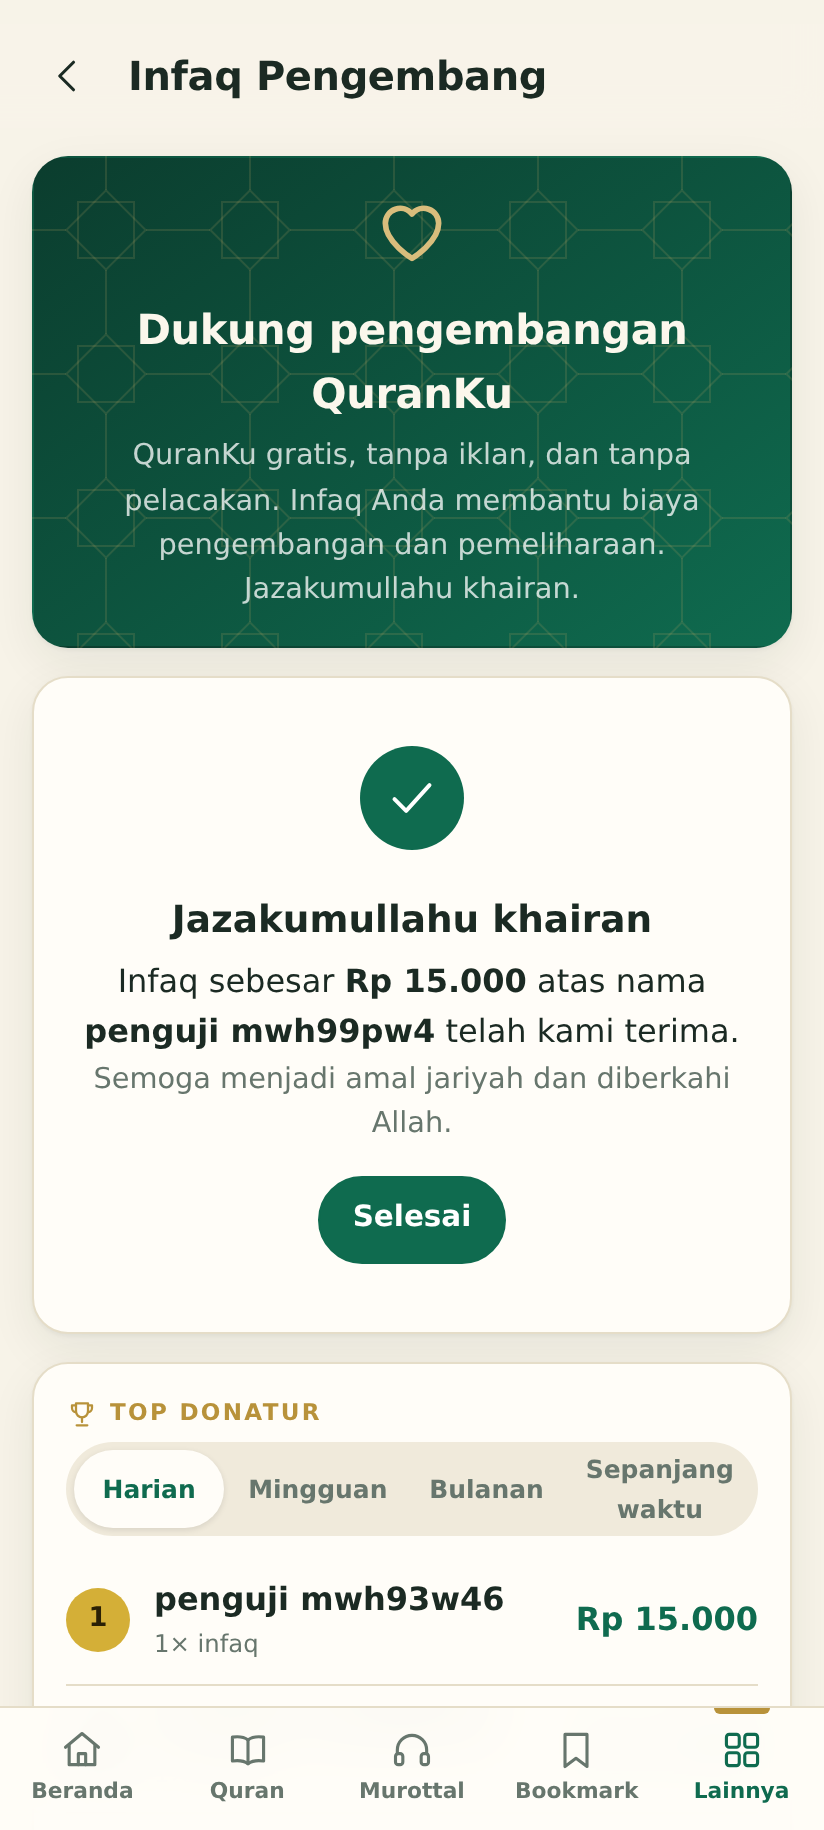
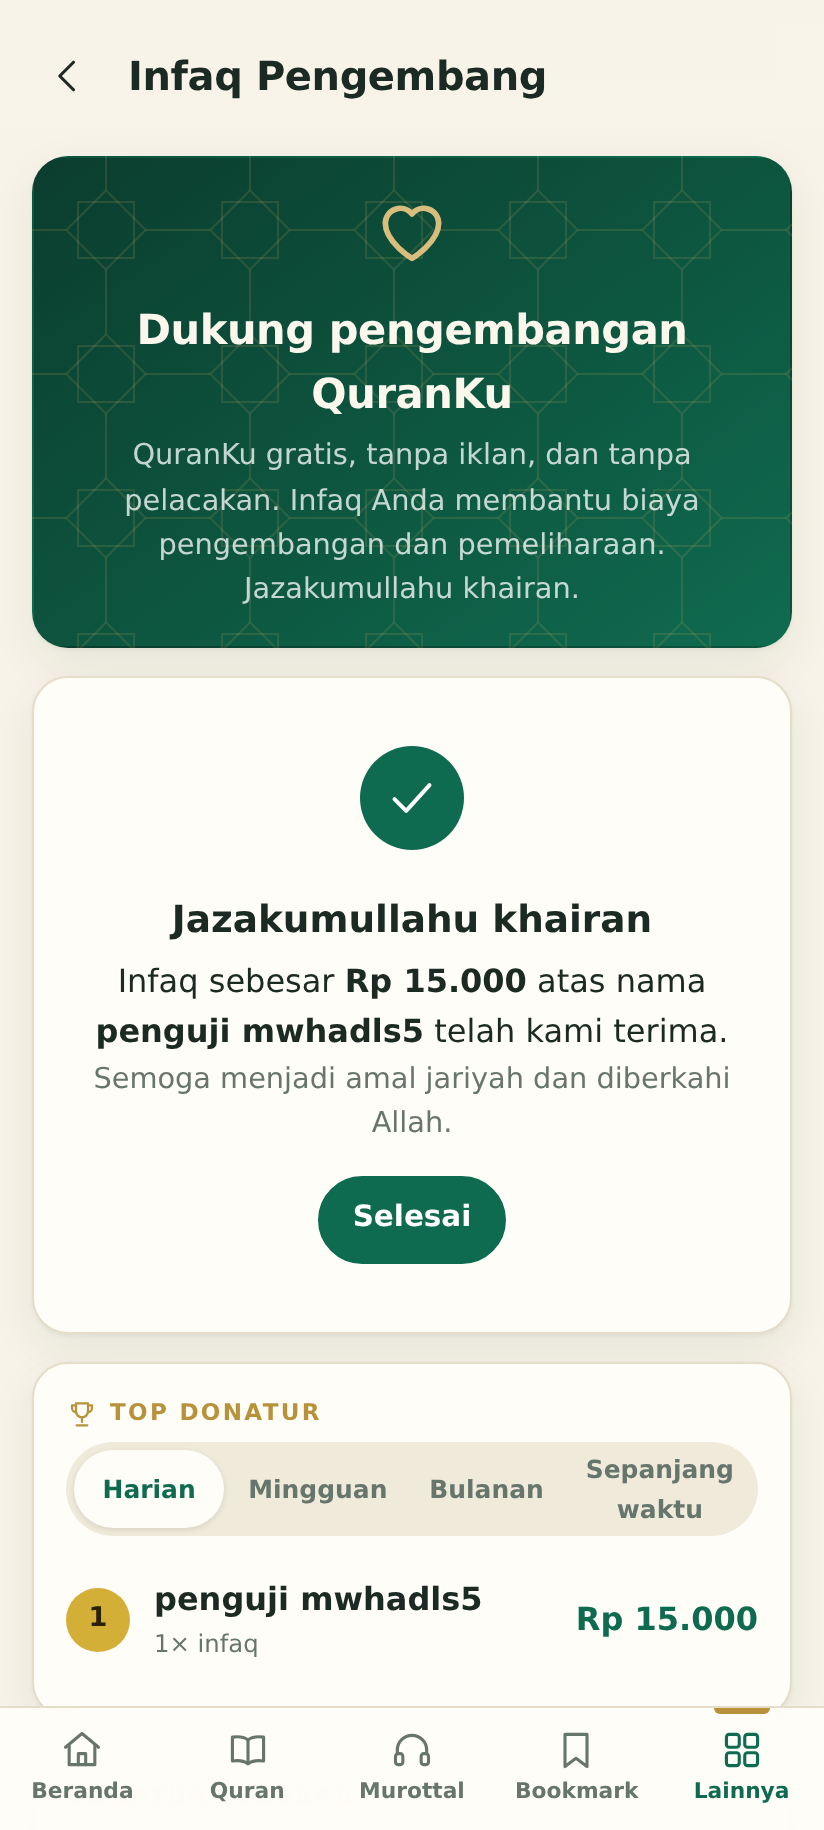
Infaq: popup pembayaran di dalam aplikasi, jalur QRIS langsung midtrans + ambil QR dari halaman checkout

diff --git a/functions/lib/provider.js b/functions/lib/provider.js
@@ -18,6 +18,7 @@ export const providerConfig = (env) => {
     unitPrice,
     hasApi: !!env.TRAKTEER_API_KEY,
     hasDirect: !!(env.TRAKTEER_SESSION && env.TRAKTEER_CSRF_TOKEN && env.TRAKTEER_CREATOR_ID && env.TRAKTEER_UNIT_ID),
+    embedUrl: env.INFAQ_USERNAME ? `${SITE}/${encodeURIComponent(env.INFAQ_USERNAME)}/tip/embed/modal` : '',
     pageUrl: (q) => (env.INFAQ_USERNAME ? `${SITE}/${encodeURIComponent(env.INFAQ_USERNAME)}/tip?quantity=${q}` : '')
   }
 }
@@ -119,58 +120,102 @@ export function extractPayment(value) {
  * Jalur tidak resmi: meminta QRIS langsung ke halaman pembayaran.
  * Selalu mengembalikan objek { ok, ... } dan tidak pernah melempar; diagnosis ringkas (tanpa rahasia) disimpan di meta.
  */
+/** Mencari string QRIS di dalam teks bebas (mis. HTML halaman checkout). */
+export function findQrInText(text) {
+  const m = /000201[A-Za-z0-9 .,\-\/+*$%:@_]{40,900}?6304[0-9A-Fa-f]{4}/.exec(String(text || '').replace(/\\\//g, '/'))
+  return m ? m[0] : ''
+}
+
+/** Mencari alamat halaman checkout penyedia di dalam respons. Hanya alamat di situs penyedia yang diterima. */
+function findCheckoutUrl(value) {
+  let out = ''
+  const walk = (v, depth = 0) => {
+    if (out || depth > 6 || v == null) return
+    if (typeof v === 'string') {
+      if (/^https:\/\/trakteer\.id\/checkout\/[\w\-\/]{6,200}$/.test(v.trim())) out = v.trim()
+    } else if (typeof v === 'object') for (const x of Object.values(v)) walk(x, depth + 1)
+  }
+  walk(value)
+  return out
+}
+
+// Halaman checkout akun ini beralamat /checkout/midtrans/qris/<id>, jadi jalur midtrans dicoba lebih dulu.
+const PAY_PATHS = ['/pay/midtrans/qris', '/pay/xendit/qris']
+
 export async function createDirectQris(env, { quantity, name, message }, fetchImpl = fetch) {
   const cfg = providerConfig(env)
   if (!cfg.hasDirect) return { ok: false, reason: 'not_configured' }
-  const diag = { at: Date.now(), step: 'checkout' }
+  const custom = /^\/[\w\-\/]{2,80}$/.test(env.TRAKTEER_PAY_PATH || '') ? env.TRAKTEER_PAY_PATH : ''
+  const paths = custom ? [custom] : PAY_PATHS
+  const diag = { at: Date.now(), step: 'checkout', tried: [] }
+  const headers = {
+    Accept: 'application/json',
+    Cookie: `trakteer-sess=${env.TRAKTEER_SESSION}`,
+    Origin: SITE,
+    Referer: `${SITE}/${encodeURIComponent(cfg.username)}`,
+    'User-Agent': UA,
+    'X-Requested-With': 'XMLHttpRequest',
+    'X-CSRF-TOKEN': env.TRAKTEER_CSRF_TOKEN
+  }
+  const save = async () => {
+    try {
+      await metaSet(env.DB, 'direct_diag', JSON.stringify(diag))
+    } catch {}
+  }
   try {
-    const res = await fetchImpl(`${SITE}/pay/xendit/qris`, {
-      method: 'POST',
-      headers: {
-        'Content-Type': 'application/json',
-        Accept: 'application/json',
-        Cookie: `trakteer-sess=${env.TRAKTEER_SESSION}`,
-        Origin: SITE,
-        Referer: `${SITE}/${encodeURIComponent(cfg.username)}`,
-        'User-Agent': UA,
-        'X-Requested-With': 'XMLHttpRequest',
-        'X-CSRF-TOKEN': env.TRAKTEER_CSRF_TOKEN
-      },
-      body: JSON.stringify({
-        form: 'create-tip',
-        creator_id: env.TRAKTEER_CREATOR_ID,
-        unit_id: env.TRAKTEER_UNIT_ID,
-        quantity,
-        payment_method: 'qris',
-        display_name: name,
-        support_message: message || '',
-        ...(env.TRAKTEER_SUPPORTER_ID ? { supporter_id: env.TRAKTEER_SUPPORTER_ID } : {}),
-        times: 'once'
-      }),
-      redirect: 'manual',
-      signal: AbortSignal.timeout(12000)
-    })
-    diag.status = res.status
-    diag.type = res.headers.get('content-type') || ''
+    let res, body, found
+    for (const path of paths) {
+      res = await fetchImpl(SITE + path, {
+        method: 'POST',
+        headers: { ...headers, 'Content-Type': 'application/json' },
+        body: JSON.stringify({
+          form: 'create-tip',
+          creator_id: env.TRAKTEER_CREATOR_ID,
+          unit_id: env.TRAKTEER_UNIT_ID,
+          quantity,
+          payment_method: 'qris',
+          display_name: name,
+          support_message: message || '',
+          ...(env.TRAKTEER_SUPPORTER_ID ? { supporter_id: env.TRAKTEER_SUPPORTER_ID } : {}),
+          times: 'once'
+        }),
+        redirect: 'manual',
+        signal: AbortSignal.timeout(10000)
+      })
+      diag.tried.push({ path, status: res.status })
+      diag.status = res.status
+      diag.type = res.headers.get('content-type') || ''
+      // Hanya "alamat tidak ada" yang boleh dilanjutkan ke jalur berikutnya, agar tidak membuat dua pesanan.
+      if (res.status !== 404 && res.status !== 405) break
+    }
     const raw = await res.text()
     diag.length = raw.length
-    let body = null
+    body = null
     try {
       body = JSON.parse(raw)
     } catch {
       diag.note = 'bukan JSON'
     }
     if (body && typeof body === 'object') diag.keys = Object.keys(body).slice(0, 20)
-    const found = body ? extractPayment(body) : { qr: '' }
+    found = body ? extractPayment(body) : { qr: '', ref: '', expiresAt: 0 }
+    if (!found.qr) found.qr = findQrInText(raw)
+    // Jawaban hanya berisi alamat halaman checkout → ambil halamannya dan cari kode QRIS di dalamnya.
+    const checkout = !found.qr && res.ok && body ? findCheckoutUrl(body) : ''
+    if (checkout) {
+      diag.step = 'halaman-checkout'
+      const page = await fetchImpl(checkout, { headers: { ...headers, Accept: 'text/html,application/json' }, redirect: 'manual', signal: AbortSignal.timeout(10000) })
+      const html = await page.text()
+      diag.checkout = { status: page.status, type: page.headers.get('content-type') || '', length: html.length }
+      found.qr = findQrInText(html)
+      if (!found.ref) found.ref = (/\/([\w-]{8,100})$/.exec(checkout) || [])[1] || ''
+    }
     diag.qr = !!found.qr
-    await metaSet(env.DB, 'direct_diag', JSON.stringify(diag))
+    await save()
     if (!res.ok || !found.qr) return { ok: false, reason: res.ok ? 'no_qr' : 'http_' + res.status }
     return { ok: true, qr: found.qr, ref: found.ref, expiresAt: found.expiresAt }
   } catch (e) {
     diag.note = 'gagal: ' + String(e && e.name ? e.name : e).slice(0, 40)
-    try {
-      await metaSet(env.DB, 'direct_diag', JSON.stringify(diag))
-    } catch {}
+    await save()
     return { ok: false, reason: 'network_error' }
   }
 }

diff --git a/src/pages/infaq.js b/src/pages/infaq.js
@@ -4,6 +4,7 @@ import { pageHeader, skeleton } from '../components/navbar.js'
 import { icon } from '../components/icons.js'
 import { getDonors } from '../api/donors-api.js'
 import { getInfaqConfig, createInfaq, getInfaqStatus, claimInfaq } from '../api/infaq-api.js'
+import { openSheet } from '../components/modal.js'
 import { $, esc, toast } from '../utils/helpers.js'
 import { formatRupiah, formatDateTime } from '../utils/format.js'
 
@@ -74,10 +75,13 @@ export default function infaq(root) {
   let quantity = 2
   let timer = null
   let tick = null
+  let popup = null
+  let pollSeq = 0
   let alive = true
   let data = null
 
   const stopTimers = () => {
+    pollSeq++
     clearTimeout(timer)
     clearInterval(tick)
     timer = tick = null
@@ -156,9 +160,9 @@ export default function infaq(root) {
       })
     } else {
       flow.innerHTML = `<p class="eyebrow">${icon('gift')} Selesaikan pembayaran</p>${head}
-        <p class="hint center">Kode pembayaran dibuat di halaman pembayaran aman. Setelah selesai, kembali ke sini — halaman ini akan memperbarui statusnya sendiri.</p>
-        <a class="btn btn-gold btn-block" href="${esc(it.url)}" target="_blank" rel="noopener noreferrer" data-open>${icon('gift')}Buka halaman pembayaran</a>
-        <p class="hint center">Isi nama <b>${esc(it.name || 'Hamba Allah')}</b> dan jumlah yang sama agar infaq Anda dikenali otomatis.</p>${waiting}${tail}`
+        <p class="hint center">Pembayaran dibuka dalam jendela di halaman ini. Setelah selesai, tutup jendelanya — status di bawah akan diperbarui sendiri.</p>
+        <button class="btn btn-gold btn-block" data-open>${icon('gift')}Bayar sekarang</button>
+${waiting}${tail}`
     }
     const left = $('[data-left]', flow)
     const countdown = () => {
@@ -171,13 +175,54 @@ export default function infaq(root) {
     poll()
   }
 
+  // Jendela pembayaran (popup) di dalam aplikasi: memuat formulir pembayaran penyedia dalam bingkai.
+  function openPayPopup() {
+    const it = intent
+    if (!it) return
+    if (!it.embedUrl) return void window.open(it.url, '_blank', 'noopener,noreferrer') // niat lama tanpa alamat bingkai
+    closePopup()
+    const origin = new URL(it.embedUrl).origin
+    const onMsg = (e) => {
+      if (e.origin !== origin) return
+      const type = typeof e.data === 'string' ? e.data : e.data && (e.data.type || e.data.event)
+      if (/clos/i.test(String(type || ''))) closePopup()
+    }
+    const sheet = openSheet({
+      title: 'Pembayaran infaq',
+      wide: true,
+      content: `<div class="pay-frame"><div class="pay-loading" data-loading><span class="spinner" aria-hidden="true"></span><p class="muted">Memuat pembayaran…</p></div>
+          <iframe data-frame title="Pembayaran infaq" src="${esc(it.embedUrl)}" referrerpolicy="strict-origin-when-cross-origin" allow="clipboard-write"></iframe></div>
+        <p class="hint center pay-note">Isi nama <b>${esc(it.name || 'Hamba Allah')}</b> dan jumlah <b>${it.quantity}</b> (${formatRupiah(it.amount)}) agar infaq dikenali otomatis.
+          Jendela kosong? <a href="${esc(it.url)}" target="_blank" rel="noopener noreferrer" data-ext>Buka di tab baru</a>.</p>`,
+      onOpen(body) {
+        body.classList.add('pay-body')
+        const frame = body.querySelector('[data-frame]')
+        const done = () => body.querySelector('[data-loading]')?.remove()
+        frame.addEventListener('load', done)
+        setTimeout(done, 8000)
+        addEventListener('message', onMsg)
+      },
+      onClose() {
+        removeEventListener('message', onMsg)
+        popup = null
+        if (alive && intent) {
+          clearTimeout(timer)
+          poll() // periksa status segera setelah jendela ditutup
+        }
+      }
+    })
+    popup = sheet
+  }
+  const closePopup = () => popup && popup.close()
+
   async function poll() {
     if (!alive || !intent) return
+    const seq = ++pollSeq
     let delay = POLL_MS
     try {
       if (document.visibilityState === 'visible' && navigator.onLine) {
         const s = await getInfaqStatus(intent.id)
-        if (!alive || !intent) return
+        if (!alive || !intent || seq !== pollSeq) return
         if (s.status === 'paid') return showResult('paid', s)
         if (s.status === 'expired') return showResult('expired')
       }
@@ -185,7 +230,7 @@ export default function infaq(root) {
       if (e && e.status === 404) return showForm('Sesi infaq tidak ditemukan. Silakan mulai lagi.')
       delay = POLL_MS * 2
     }
-    timer = setTimeout(poll, delay)
+    if (seq === pollSeq) timer = setTimeout(poll, delay)
   }
 
   async function claim() {
@@ -209,6 +254,7 @@ export default function infaq(root) {
   // ---------- Langkah 4: hasil ----------
   function showResult(kind, s) {
     stopTimers()
+    closePopup()
     const it = intent
     if (kind === 'paid') {
       saveIntent(null)
@@ -286,6 +332,7 @@ export default function infaq(root) {
     if (q) return setQuantity(+q.dataset.q)
     if (t.closest('[data-pay]')) return pay()
     if (t.closest('[data-claim]')) return claim()
+    if (t.closest('[data-open]')) return openPayPopup()
     if (t.closest('[data-cancel]') || t.closest('[data-again]')) return showForm()
     if (t.closest('[data-dl]')) {
       const canvas = $('[data-qr]', flow)

diff --git a/src/api/infaq-api.js b/src/api/infaq-api.js
@@ -30,14 +30,16 @@ const num = (v) => (Number.isFinite(Number(v)) ? Number(v) : 0)
 function cleanIntent(j) {
   if (typeof j.id !== 'string' || !/^[0-9a-f]{32}$/.test(j.id)) throw Object.assign(new Error('invalid'), { code: 'invalid' })
   const mode = j.mode === 'qris' && typeof j.qr === 'string' && /^000201[\x20-\x7E]{40,900}$/.test(j.qr) ? 'qris' : 'redirect'
-  let url = ''
-  if (mode === 'redirect' && typeof j.url === 'string') {
+  const https = (v) => {
+    if (mode !== 'redirect' || typeof v !== 'string') return ''
     try {
-      const u = new URL(j.url)
-      if (u.protocol === 'https:') url = u.href
-    } catch {}
+      const u = new URL(v)
+      return u.protocol === 'https:' ? u.href : ''
+    } catch {
+      return ''
+    }
   }
-  return { id: j.id, mode, qr: mode === 'qris' ? j.qr : '', url, amount: num(j.amount), quantity: num(j.quantity), name: String(j.name || '').slice(0, 40), expiresAt: num(j.expiresAt) }
+  return { id: j.id, mode, qr: mode === 'qris' ? j.qr : '', url: https(j.url), embedUrl: https(j.embedUrl), amount: num(j.amount), quantity: num(j.quantity), name: String(j.name || '').slice(0, 40), expiresAt: num(j.expiresAt) }
 }
 
 export async function getInfaqConfig() {

diff --git a/src/styles/main.css b/src/styles/main.css
@@ -2029,3 +2029,38 @@ body.has-player {
 .btn-row.center {
   justify-content: center;
 }
+
+/* ===== Jendela pembayaran infaq ===== */
+.sheet-body.pay-body {
+  padding: 0 0 calc(10px + var(--safe-b));
+  display: flex;
+  flex-direction: column;
+}
+.pay-frame {
+  position: relative;
+  height: min(70dvh, 640px);
+  background: #fff;
+}
+.pay-frame iframe {
+  width: 100%;
+  height: 100%;
+  border: 0;
+  display: block;
+}
+.pay-loading {
+  position: absolute;
+  inset: 0;
+  display: grid;
+  place-content: center;
+  justify-items: center;
+  gap: 10px;
+  background: var(--surface);
+}
+.pay-note {
+  padding: 10px 18px 0;
+}
+.pay-note a {
+  color: var(--primary);
+  text-decoration: underline;
+  font-weight: 600;
+}

diff --git a/functions/api/infaq.js b/functions/api/infaq.js
@@ -57,7 +57,7 @@ export async function onCreate({ request, env }) {
     .bind(id, name, quantity, amount, mode, direct.ok ? direct.ref || null : null, ip, now)
     .run()
   const expiresAt = Math.min(now + INTENT_TTL, direct.ok && direct.expiresAt > now ? direct.expiresAt : Infinity)
-  return json({ ok: true, id, mode, amount, quantity, name, expiresAt, ...(direct.ok ? { qr: direct.qr } : { url: cfg.pageUrl(quantity) }) })
+  return json({ ok: true, id, mode, amount, quantity, name, expiresAt, ...(direct.ok ? { qr: direct.qr } : { url: cfg.pageUrl(quantity), embedUrl: cfg.embedUrl }) })
 }
 
 /** Mencari donasi sukses yang cocok dengan niat infaq dan belum dipakai niat lain. */

diff --git a/docs/INFAQ.md b/docs/INFAQ.md
@@ -10,8 +10,11 @@ aplikasi sendiri (`#/infaq`); dana diterima lewat akun Trakteer `lanteraku`.
    - **Mode QRIS langsung** (bila secret QRIS langsung terisi dan Trakteer menjawab dengan kode QRIS): Worker meminta
      QRIS ke Trakteer di latar belakang. Aplikasi menggambar kode QR sendiri, bisa diunduh sebagai PNG. Tidak ada tab
      baru dan tidak ada pengalihan.
-   - **Mode halaman pembayaran** (cadangan otomatis bila mode di atas belum diatur atau gagal): aplikasi menampilkan
-     tombol *Buka halaman pembayaran* yang membuka halaman pembayaran Trakteer dengan nominal, nama, dan pesan sudah terisi.
+   - **Mode popup** (cadangan otomatis bila mode di atas belum diatur atau gagal): tombol *Bayar sekarang* membuka
+     jendela (popup) di dalam aplikasi berisi formulir pembayaran Trakteer versi sematan
+     (`https://trakteer.id/lanteraku/tip/embed/modal`) dalam sebuah bingkai. Tidak ada tab baru dan aplikasi tidak
+     berpindah halaman. Donatur mengisi nama dan jumlah yang sama di dalam popup. Bila bingkai tidak mau tampil,
+     tersedia tautan kecil *Buka di tab baru*. Alamat sematan ini belum diuji terhadap Trakteer sungguhan.
 3. Layar **Menunggu pembayaran**: aplikasi memeriksa `GET /api/infaq/status` secara berkala. Niat bertahan walau
    aplikasi ditutup atau dimuat ulang.
 4. Begitu pembayaran tercatat → layar **Terima kasih** dan papan donatur diperbarui. Bila kedaluwarsa → layar gagal.
@@ -45,6 +48,7 @@ Cloudflare → Worker `quran-cgs` → Settings → Variables and Secrets (jenis 
 | `TRAKTEER_CREATOR_ID` | hanya QRIS langsung | ID kreator `lanteraku` |
 | `TRAKTEER_UNIT_ID` | hanya QRIS langsung | ID unit dukungan |
 | `TRAKTEER_SUPPORTER_ID` | opsional | ID akun pendukung pemilik sesi |
+| `TRAKTEER_PAY_PATH` | opsional | Alamat permintaan QRIS bila berbeda, mis. `/pay/midtrans/qris` |
 
 Lalu:
 
@@ -56,11 +60,13 @@ Lalu:
 ## Mode QRIS langsung: tidak resmi dan belum terverifikasi
 
 Trakteer tidak menyediakan API resmi untuk membuat pembayaran. Mode ini meniru permintaan yang dikirim situs Trakteer
-(`POST https://trakteer.id/pay/xendit/qris`) memakai sesi sebuah akun pendukung. Bentuk permintaan itu disusun dari
+(`POST https://trakteer.id/pay/midtrans/qris`, lalu `/pay/xendit/qris` bila alamat pertama tidak ada) memakai sesi
+sebuah akun pendukung. Bila jawabannya hanya berisi alamat halaman checkout, Worker mengambil halaman itu dan
+mencari kode QRIS di dalamnya. Bentuk permintaan itu disusun dari
 pengamatan, **belum pernah diuji terhadap Trakteer sungguhan**, dan bisa salah atau berubah kapan saja.
 
 - Gunakan akun Trakteer **kedua** (akun pendukung), bukan akun kreator, untuk mengambil cookie dan CSRF token.
-- Sesi kedaluwarsa; saat itu aplikasi otomatis kembali ke mode halaman pembayaran sampai secret diperbarui.
+- Sesi kedaluwarsa; saat itu aplikasi otomatis kembali ke mode popup sampai secret diperbarui.
 - Cara ini kemungkinan tidak sesuai ketentuan layanan Trakteer; akun bisa dibatasi.
 - Hasil percobaan terakhir (status HTTP, nama kolom jawaban, tanpa rahasia) dapat dilihat:
   `curl -H "X-Webhook-Token: <token>" https://quran.cgs.my.id/api/infaq/diag`
